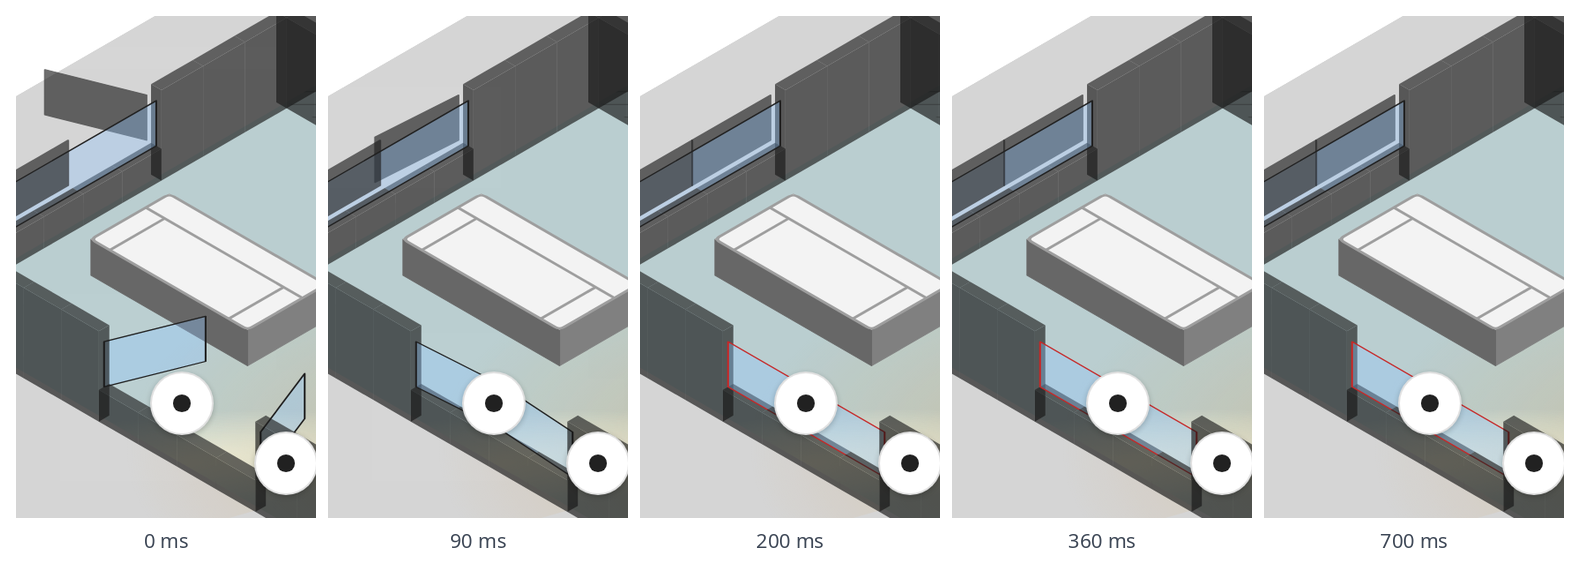
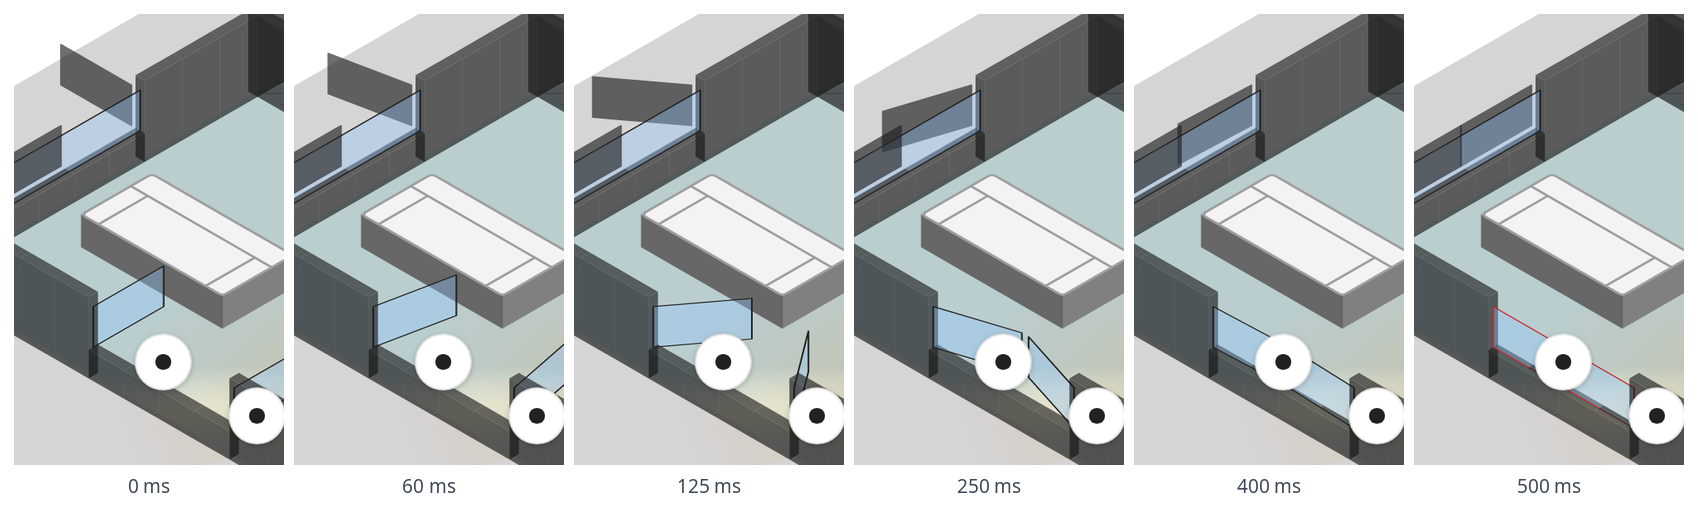
docs: resample the panel filmstrip on a driven clock
The first strip was sampled in real time, and each wait started only after the
previous screenshot returned — so the frames labelled 200ms and later were
all taken after the 500ms travel had finished, and looked identical. The
capture now stubs performance.now and the frame queue in the page and steps
them itself, so every label is the time the frame was drawn at.

diff --git a/docs/appearance.md b/docs/appearance.md
@@ -466,8 +466,8 @@ icons (`wallHeight: 60`, `wallOpacity: 0.65`):
 
 ![Night view with a lit reading lamp](img/3d-view-night.png)
 
-A casement window closing, sampled from the moment its sensor changed. The
-panels ease to the new position rather than arriving in one frame:
+A casement window closing, sampled by frame number from the moment its sensor
+changed. The panels ease to the new position rather than arriving in one frame:
 
 ![Window sashes easing shut over five frames](img/3d-view-panel-travel.png)
 
